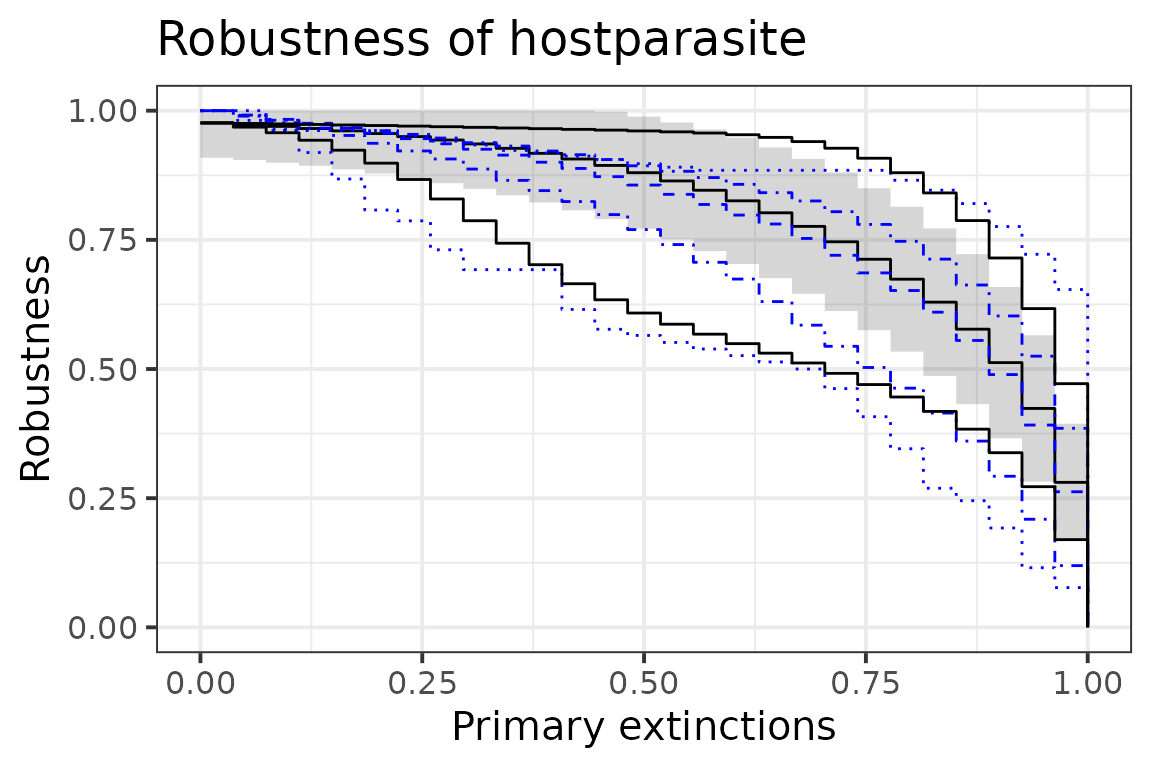
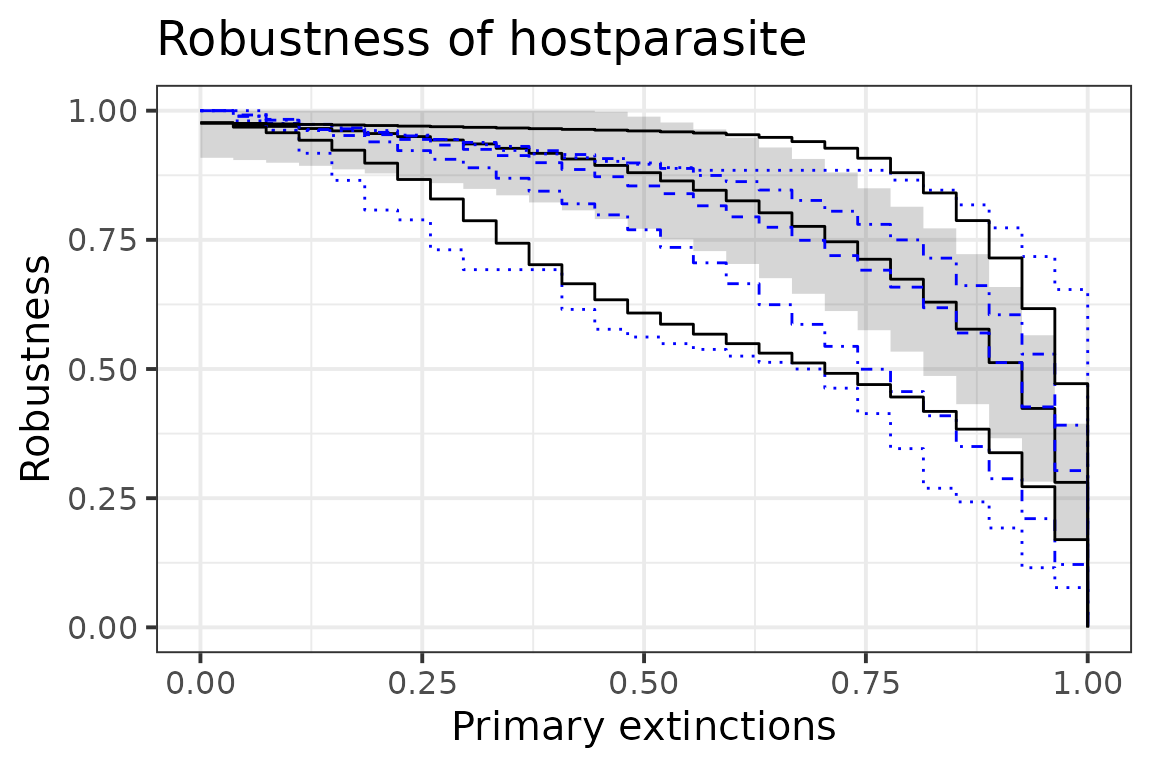
Deploying to gh-pages from @ Chabert-Liddell/robber@71d9368f2d7176ad4188ecf005f1a660fdf2be77 🚀

diff --git a/articles/topological-analysis.html b/articles/topological-analysis.html
@@ -33,7 +33,7 @@
       </button>
       <span class="navbar-brand">
         <a class="navbar-link" href="../index.html">robber</a>
-        <span class="version label label-default" data-toggle="tooltip" data-placement="bottom" title="">0.2.3</span>
+        <span class="version label label-default" data-toggle="tooltip" data-placement="bottom" title="">0.2.4</span>
       </span>
     </div>
 
@@ -156,20 +156,20 @@ host-parasite network and the default uniform extinction sequence:</p>
 <span><span class="co">#&gt; [1] 1</span></span>
 <span><span class="co">#&gt; </span></span>
 <span><span class="co">#&gt; $fun</span></span>
-<span><span class="co">#&gt;  [1] 1.0000000 0.9914103 0.9832051 0.9756410 0.9660256 0.9561538 0.9457692</span></span>
-<span><span class="co">#&gt;  [8] 0.9358974 0.9253846 0.9139744 0.9002564 0.8882051 0.8723077 0.8560256</span></span>
-<span><span class="co">#&gt; [15] 0.8380769 0.8184615 0.7979487 0.7806410 0.7526923 0.7201282 0.6860256</span></span>
-<span><span class="co">#&gt; [22] 0.6519231 0.6100000 0.5552564 0.4892308 0.3915385 0.2624359 0.0000000</span></span>
+<span><span class="co">#&gt;  [1] 1.0000000 0.9916667 0.9832051 0.9733333 0.9648718 0.9535897 0.9443590</span></span>
+<span><span class="co">#&gt;  [8] 0.9334615 0.9251282 0.9130769 0.8993590 0.8861538 0.8721795 0.8543590</span></span>
+<span><span class="co">#&gt; [15] 0.8393590 0.8158974 0.7944872 0.7743590 0.7491026 0.7194872 0.6912821</span></span>
+<span><span class="co">#&gt; [22] 0.6584615 0.6185897 0.5697436 0.5124359 0.4266667 0.3033333 0.0000000</span></span>
 <span><span class="co">#&gt; </span></span>
 <span><span class="co">#&gt; $sd</span></span>
-<span><span class="co">#&gt;  [1] 0.00000000 0.01989920 0.02454758 0.02828143 0.03335814 0.03709430</span></span>
-<span><span class="co">#&gt;  [7] 0.04031856 0.04212468 0.04702253 0.04884309 0.05358581 0.05544623</span></span>
-<span><span class="co">#&gt; [13] 0.05890291 0.06420595 0.06948080 0.07351870 0.07878963 0.08282589</span></span>
-<span><span class="co">#&gt; [19] 0.09223504 0.09807161 0.10141868 0.11001236 0.11970143 0.12846678</span></span>
-<span><span class="co">#&gt; [25] 0.13873711 0.15333527 0.15559904 0.00000000</span></span>
+<span><span class="co">#&gt;  [1] 0.00000000 0.01846516 0.02572845 0.03112308 0.03501023 0.03998690</span></span>
+<span><span class="co">#&gt;  [7] 0.04221150 0.04564562 0.04786856 0.04962307 0.05388641 0.05580792</span></span>
+<span><span class="co">#&gt; [13] 0.05643018 0.06378500 0.06460539 0.06950132 0.07375911 0.07891261</span></span>
+<span><span class="co">#&gt; [19] 0.08787590 0.09310677 0.09896924 0.10990955 0.11666210 0.12542198</span></span>
+<span><span class="co">#&gt; [25] 0.13975252 0.16204343 0.17012747 0.00000000</span></span>
 <span><span class="co">#&gt; </span></span>
 <span><span class="co">#&gt; $auc</span></span>
-<span><span class="co">#&gt; [1] 0.7949858</span></span>
+<span><span class="co">#&gt; [1] 0.7988129</span></span>
 <span><span class="co">#&gt; </span></span>
 <span><span class="co">#&gt; attr(,"class")</span></span>
 <span><span class="co">#&gt; [1] "robber"</span></span>
@@ -258,7 +258,7 @@ Block Model parameters.</p>
 <p>As we can see the two robustness statistics are very close:</p>
 <div class="sourceCode" id="cb8"><pre class="downlit sourceCode r">
 <code class="sourceCode R"><span><span class="va">rob_emp_unif</span><span class="op">$</span><span class="va">auc</span></span>
-<span><span class="co">#&gt; [1] 0.7949858</span></span>
+<span><span class="co">#&gt; [1] 0.7988129</span></span>
 <span><span class="va">rob_lbm_unif</span><span class="op">$</span><span class="va">auc</span></span>
 <span><span class="co">#&gt; [1] 0.808319</span></span></code></pre></div>
 <p>And we can plot the two curves (the empirical one in blue and the LBM
@@ -304,9 +304,9 @@ about a worst-case and best-case scenario.</p>
 <code class="sourceCode R"><span><span class="va">rob_emp_dec</span> <span class="op">&lt;-</span> <span class="fu"><a href="../reference/robustness_emp.html">robustness_emp</a></span><span class="op">(</span><span class="va">hostparasite</span>, ext_seq <span class="op">=</span> <span class="st">"decreasing"</span><span class="op">)</span></span>
 <span><span class="va">rob_emp_inc</span> <span class="op">&lt;-</span> <span class="fu"><a href="../reference/robustness_emp.html">robustness_emp</a></span><span class="op">(</span><span class="va">hostparasite</span>, ext_seq <span class="op">=</span> <span class="st">"increasing"</span><span class="op">)</span></span>
 <span><span class="va">rob_emp_dec</span><span class="op">$</span><span class="va">auc</span></span>
-<span><span class="co">#&gt; [1] 0.5797768</span></span>
+<span><span class="co">#&gt; [1] 0.5795347</span></span>
 <span><span class="va">rob_emp_inc</span><span class="op">$</span><span class="va">auc</span></span>
-<span><span class="co">#&gt; [1] 0.8922365</span></span></code></pre></div>
+<span><span class="co">#&gt; [1] 0.8916809</span></span></code></pre></div>
 <p>The above method is very sensitive to the network sampling, in
 particular for increasing connection. One way to counter that is to
 consider that the order of extinction is a function of the degree, for
@@ -317,9 +317,9 @@ example it might depends linearly on it.</p>
 <span><span class="va">rob_emp_inc_lin</span> <span class="op">&lt;-</span> <span class="fu"><a href="../reference/robustness_emp.html">robustness_emp</a></span><span class="op">(</span><span class="va">hostparasite</span>, ext_seq <span class="op">=</span> <span class="st">"increasing"</span>, </span>
 <span>                                  method <span class="op">=</span> <span class="st">"linear"</span><span class="op">)</span></span>
 <span><span class="va">rob_emp_dec_lin</span><span class="op">$</span><span class="va">auc</span></span>
-<span><span class="co">#&gt; [1] 0.6994492</span></span>
+<span><span class="co">#&gt; [1] 0.6975736</span></span>
 <span><span class="va">rob_emp_inc_lin</span><span class="op">$</span><span class="va">auc</span></span>
-<span><span class="co">#&gt; [1] 0.8435613</span></span></code></pre></div>
+<span><span class="co">#&gt; [1] 0.8449383</span></span></code></pre></div>
 <p>As we can see the obtained robustness values are less extreme and
 closer to the one of a uniform primary extinctions distribution.</p>
 <p>Using the LBM, we can compute a robustness where the extinction

diff --git a/news/index.html b/news/index.html
@@ -17,7 +17,7 @@
       </button>
       <span class="navbar-brand">
         <a class="navbar-link" href="../index.html">robber</a>
-        <span class="version label label-default" data-toggle="tooltip" data-placement="bottom" title="">0.2.3</span>
+        <span class="version label label-default" data-toggle="tooltip" data-placement="bottom" title="">0.2.4</span>
       </span>
     </div>
 
@@ -66,6 +66,10 @@
       <small>Source: <a href="https://github.com/Chabert-Liddell/robber/blob/HEAD/NEWS.md" class="external-link"><code>NEWS.md</code></a></small>
     </div>
 
+    <div class="section level2">
+<h2 class="page-header" data-toc-text="0.2.4" id="robber-024">robber 0.2.4<a class="anchor" aria-label="anchor" href="#robber-024"></a></h2>
+<ul><li>Patch for new <code>ggplot2</code> version compatibility.</li>
+</ul></div>
     <div class="section level2">
 <h2 class="page-header" data-toc-text="0.2.3" id="robber-023">robber 0.2.3<small>2023-02-28</small><a class="anchor" aria-label="anchor" href="#robber-023"></a></h2>
 <ul><li>Removed some unneeded dependences.</li>

diff --git a/reference/auc_robustness_lbm.html b/reference/auc_robustness_lbm.html
@@ -20,7 +20,7 @@ useful if nr gets large.'><!-- mathjax --><script src="https://cdnjs.cloudflare.
       </button>
       <span class="navbar-brand">
         <a class="navbar-link" href="../index.html">robber</a>
-        <span class="version label label-default" data-toggle="tooltip" data-placement="bottom" title="">0.2.3</span>
+        <span class="version label label-default" data-toggle="tooltip" data-placement="bottom" title="">0.2.4</span>
       </span>
     </div>
 

diff --git a/reference/compare_robustness.html b/reference/compare_robustness.html
@@ -20,7 +20,7 @@ sequence is bounded above by 0.5."><!-- mathjax --><script src="https://cdnjs.cl
       </button>
       <span class="navbar-brand">
         <a class="navbar-link" href="../index.html">robber</a>
-        <span class="version label label-default" data-toggle="tooltip" data-placement="bottom" title="">0.2.3</span>
+        <span class="version label label-default" data-toggle="tooltip" data-placement="bottom" title="">0.2.4</span>
       </span>
     </div>
 

diff --git a/reference/hostparasite.html b/reference/hostparasite.html
@@ -18,7 +18,7 @@ Reference:Hadfield JD, Krasnov BR, Poulin R, Shinichi N (2013) A tale of two phy
       </button>
       <span class="navbar-brand">
         <a class="navbar-link" href="../index.html">robber</a>
-        <span class="version label label-default" data-toggle="tooltip" data-placement="bottom" title="">0.2.3</span>
+        <span class="version label label-default" data-toggle="tooltip" data-placement="bottom" title="">0.2.4</span>
       </span>
     </div>
 

diff --git a/reference/pollination.html b/reference/pollination.html
@@ -18,7 +18,7 @@ Stald L (2003). Struktur og dynamik i rum og tid af et bestøvningsnetværk på 
       </button>
       <span class="navbar-brand">
         <a class="navbar-link" href="../index.html">robber</a>
-        <span class="version label label-default" data-toggle="tooltip" data-placement="bottom" title="">0.2.3</span>
+        <span class="version label label-default" data-toggle="tooltip" data-placement="bottom" title="">0.2.4</span>
       </span>
     </div>
 

diff --git a/reference/robustness_emp.html b/reference/robustness_emp.html
@@ -18,7 +18,7 @@ over a great number of randomly generated primary extinctions sequences"><!-- ma
       </button>
       <span class="navbar-brand">
         <a class="navbar-link" href="../index.html">robber</a>
-        <span class="version label label-default" data-toggle="tooltip" data-placement="bottom" title="">0.2.3</span>
+        <span class="version label label-default" data-toggle="tooltip" data-placement="bottom" title="">0.2.4</span>
       </span>
     </div>
 

diff --git a/reference/robustness_lbm.html b/reference/robustness_lbm.html
@@ -18,7 +18,7 @@ parameters."><!-- mathjax --><script src="https://cdnjs.cloudflare.com/ajax/libs
       </button>
       <span class="navbar-brand">
         <a class="navbar-link" href="../index.html">robber</a>
-        <span class="version label label-default" data-toggle="tooltip" data-placement="bottom" title="">0.2.3</span>
+        <span class="version label label-default" data-toggle="tooltip" data-placement="bottom" title="">0.2.4</span>
       </span>
     </div>
 

diff --git a/reference/seeddispersal.html b/reference/seeddispersal.html
@@ -18,7 +18,7 @@ Hammann, A. &amp;amp; Curio, B. (1999) Interactions among frugivores and fleshy 
       </button>
       <span class="navbar-brand">
         <a class="navbar-link" href="../index.html">robber</a>
-        <span class="version label label-default" data-toggle="tooltip" data-placement="bottom" title="">0.2.3</span>
+        <span class="version label label-default" data-toggle="tooltip" data-placement="bottom" title="">0.2.4</span>
       </span>
     </div>
 

diff --git a/articles/index.html b/articles/index.html
@@ -17,7 +17,7 @@
       </button>
       <span class="navbar-brand">
         <a class="navbar-link" href="../index.html">robber</a>
-        <span class="version label label-default" data-toggle="tooltip" data-placement="bottom" title="">0.2.3</span>
+        <span class="version label label-default" data-toggle="tooltip" data-placement="bottom" title="">0.2.4</span>
       </span>
     </div>
 

diff --git a/articles/plot_article.html b/articles/plot_article.html
@@ -33,7 +33,7 @@
       </button>
       <span class="navbar-brand">
         <a class="navbar-link" href="../index.html">robber</a>
-        <span class="version label label-default" data-toggle="tooltip" data-placement="bottom" title="">0.2.3</span>
+        <span class="version label label-default" data-toggle="tooltip" data-placement="bottom" title="">0.2.4</span>
       </span>
     </div>
 

diff --git a/reference/get_lbm_param.html b/reference/get_lbm_param.html
@@ -17,7 +17,7 @@
       </button>
       <span class="navbar-brand">
         <a class="navbar-link" href="../index.html">robber</a>
-        <span class="version label label-default" data-toggle="tooltip" data-placement="bottom" title="">0.2.3</span>
+        <span class="version label label-default" data-toggle="tooltip" data-placement="bottom" title="">0.2.4</span>
       </span>
     </div>
 
